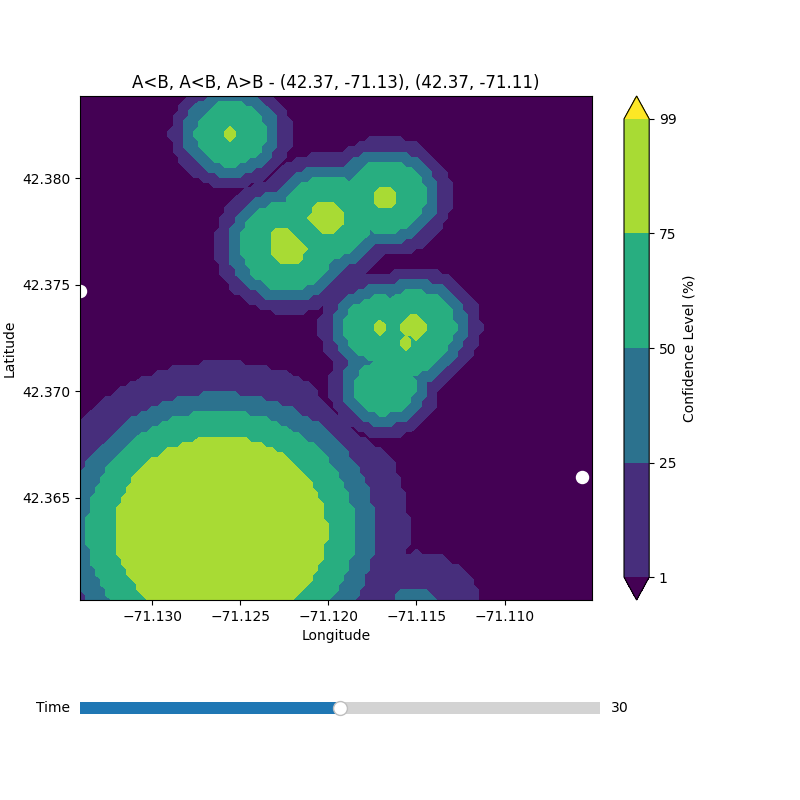
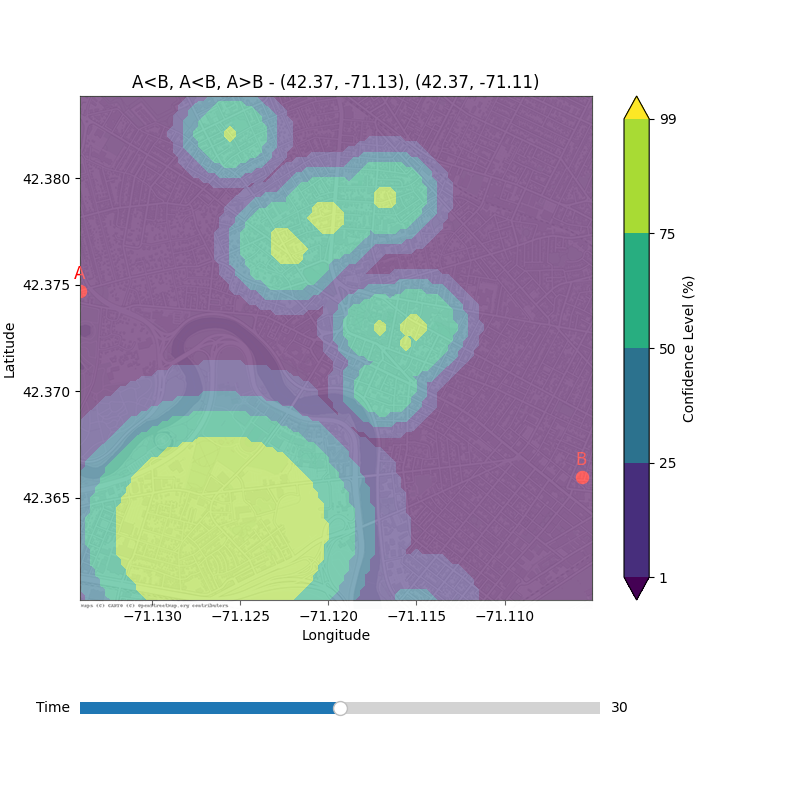
added map overlay

diff --git a/isochrome-renderer/overlayer.py b/isochrome-renderer/overlayer.py
@@ -1,0 +1,42 @@
+from PIL import Image
+
+def overlay_images(background_path, overlay_path, output_path, position=(0, 0), transparency=0.5):
+    """
+    Overlay an image onto another image with transparency.
+
+    Args:
+    - background_path (str): Path to the background image.
+    - overlay_path (str): Path to the overlay image.
+    - output_path (str): Path where the resultant image will be saved.
+    - position (tuple, optional): The position (x, y) where the overlay image will be placed on the background. Defaults to (0, 0).
+    - transparency (float, optional): The transparency level of the overlay image. 1.0 is fully opaque, 0.0 is fully transparent. Defaults to 0.5.
+    """
+    # Open the background and overlay images
+    background = Image.open(background_path).convert("RGBA")
+    overlay = Image.open(overlay_path).convert("RGBA")
+
+    # Resize overlay image to match the background image size
+    # If your images are of different sizes, consider resizing or adjusting them appropriately
+    # overlay = overlay.resize(background.size)
+
+    # Apply transparency to overlay
+    overlay_with_transparency = overlay.copy()
+    if transparency < 1.0:
+        for x in range(overlay.width):
+            for y in range(overlay.height):
+                r, g, b, a = overlay_with_transparency.getpixel((x, y))
+                overlay_with_transparency.putpixel((x, y), (r, g, b, int(a * transparency)))
+
+    # Composite the images
+    combined = Image.alpha_composite(background, overlay_with_transparency)
+
+    # Save the result
+    combined.save(output_path, format="PNG")
+    print(f"Image saved to {output_path}")
+    
+# Get all the PNG files in the current directory, except for overlay.png
+import os
+png_files = [file for file in os.listdir(".") if file.endswith(".png") and file != "overlay.png"]
+for file in png_files:
+    overlay_images(file, "overlay.png", file, transparency=0.4)
+

diff --git a/isochrome-renderer/isochrome_confidence_slider.py b/isochrome-renderer/isochrome_confidence_slider.py
@@ -42,8 +42,13 @@ def update(val=None, points=None, title=None):
     if points is not None:
         point1 = points[0]
         point2 = points[1]
-        ax.scatter(point1[1], point1[0], color='white', s=75)
-        ax.scatter(point2[1], point2[0], color='white', s=75)
+        # Label as A
+        ax.scatter(point1[1], point1[0], color='red', s=75)
+        ax.text(point1[1], point1[0] + 0.0008, 'A', fontsize=12, color='black', ha='center', va='center')
+        # Label as B
+        ax.scatter(point2[1], point2[0], color='red', s=75)
+        ax.text(point2[1], point2[0] + 0.0008, 'B', fontsize=12, color='black', ha='center', va='center')
+        
     
     global cbar
     if cbar:
@@ -82,5 +87,5 @@ with open('../data-generator/surveyGpsCoordinates.json', 'r') as f:
                 # round to 2 decimal places
                 point_text = f"({points[0][0]:.2f}, {points[0][1]:.2f}), ({points[1][0]:.2f}, {points[1][1]:.2f})"
                 title = f"{geographic_comparison}, {temporal_mean}, {temporal_variance} - {point_text}"
-                update(None, points, title)
+                update(None, points, title)      
                 plt.savefig(f"confidence_{geographic_comparison}, {temporal_mean}, {temporal_variance}.png")

diff --git a/isochrome-renderer/isochrome_time_slider.py b/isochrome-renderer/isochrome_time_slider.py
@@ -46,8 +46,10 @@ def update(val=None, points=None, title=None):
     if points is not None:
         point1 = points[0]
         point2 = points[1]
-        ax.scatter(point1[1], point1[0], color='white', s=75)
-        ax.scatter(point2[1], point2[0], color='white', s=75)
+        ax.scatter(point1[1], point1[0], color='red', s=75)
+        ax.text(point1[1], point1[0] + 0.0008, 'A', fontsize=12, color='red', ha='center', va='center')
+        ax.scatter(point2[1], point2[0], color='red', s=75)
+        ax.text(point2[1], point2[0] + 0.0008, 'B', fontsize=12, color='red', ha='center', va='center')
     
     # remove old colorbar
     global cbar
